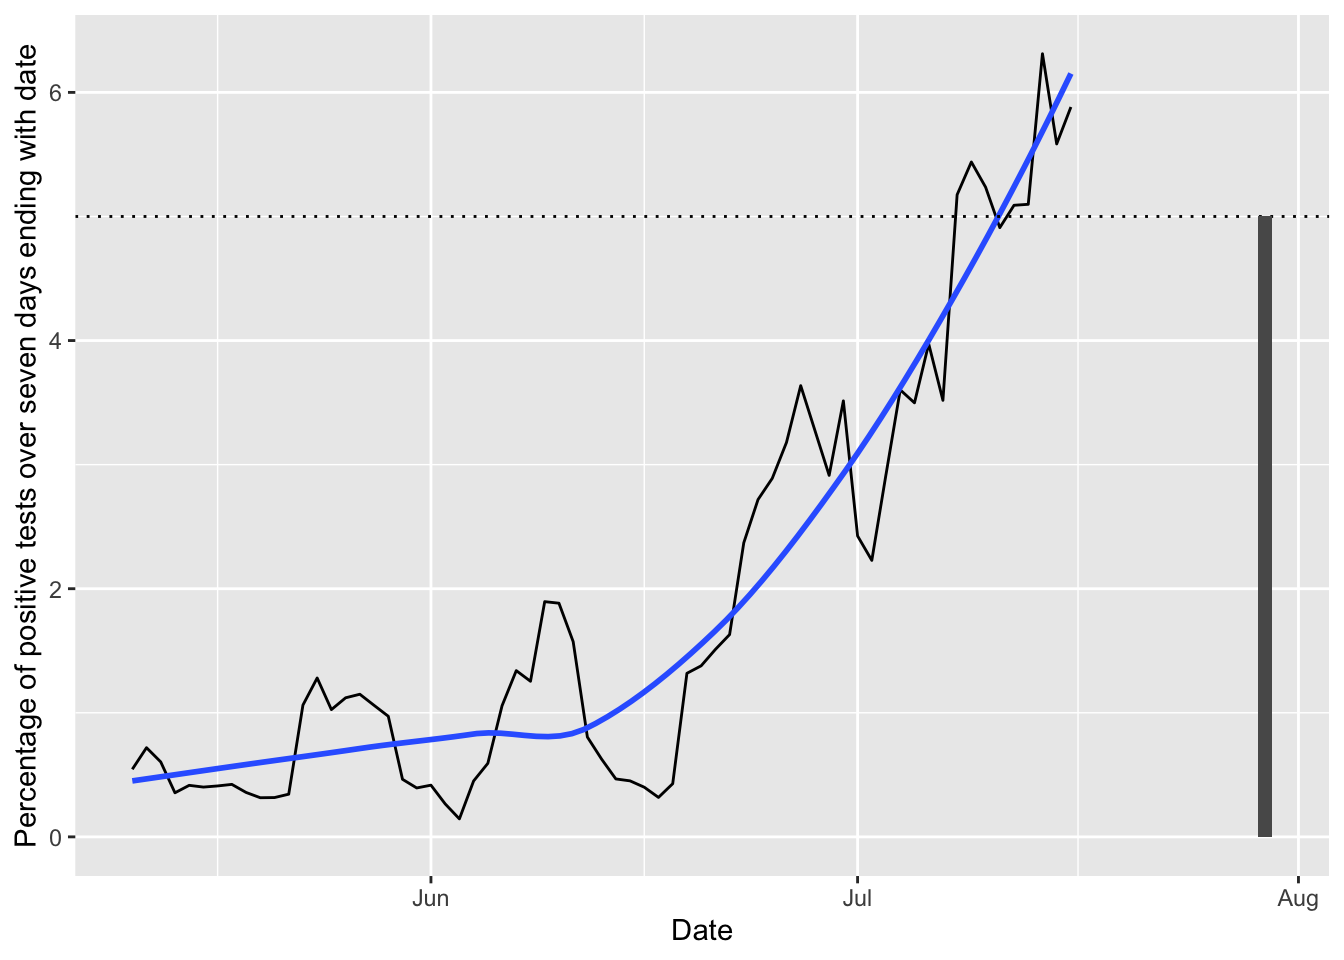
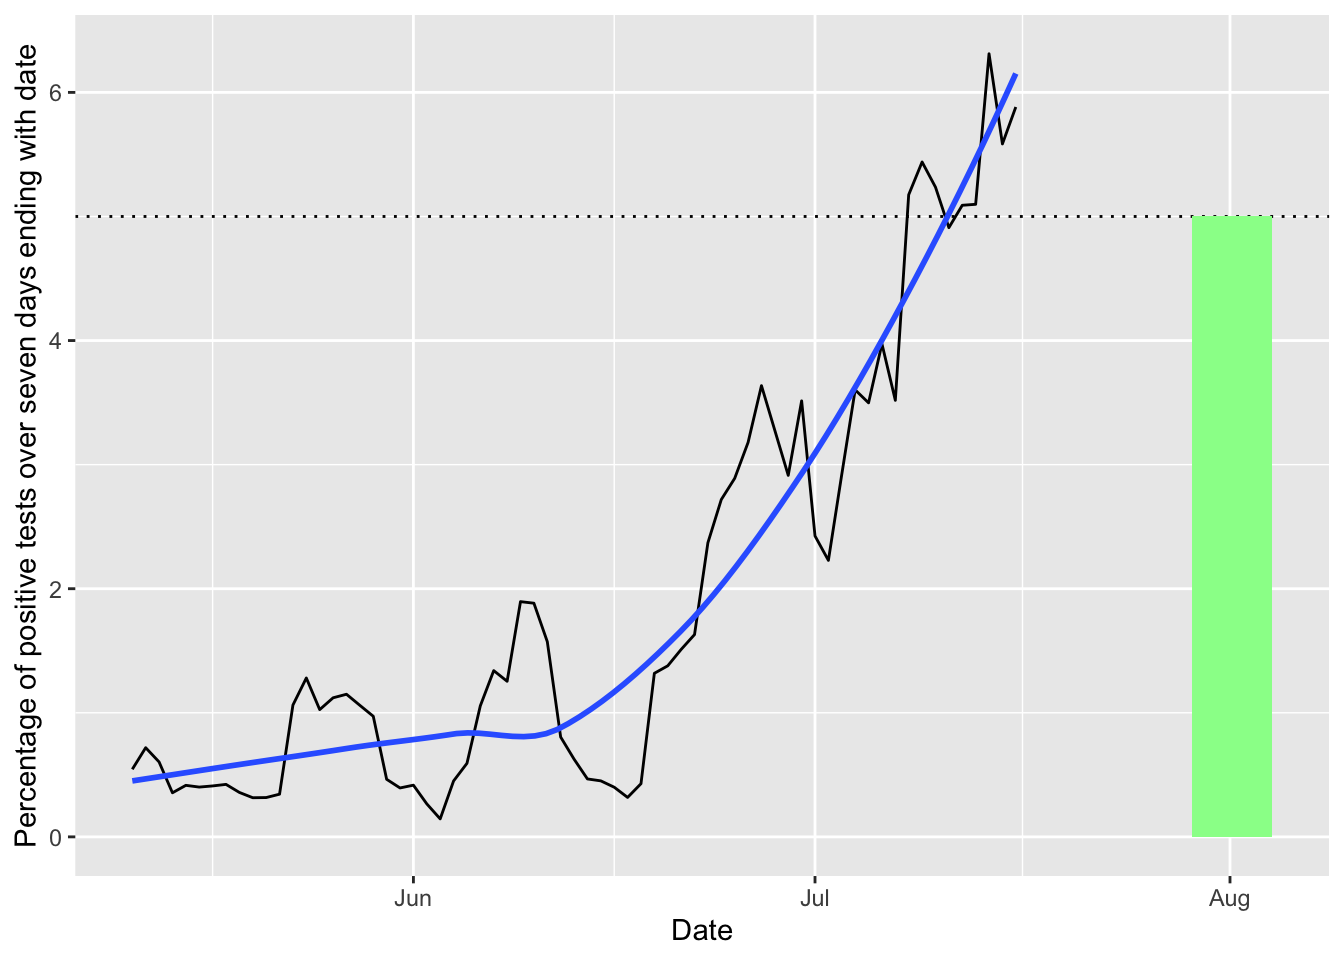
updating site

diff --git a/docs/covid.html b/docs/covid.html
@@ -412,7 +412,7 @@ $(document).ready(function () {
 <li><a href="https://projects.propublica.org/reopening-america/">ProPublica’s tracker of state status</a>. Click on the play button below their map to see how rates are changing over time, and dig into info on your state.</li>
 </ul>
 <hr />
-<p>Here are some plots, created in R using data from <a href="https://covid19datahub.io" class="uri">https://covid19datahub.io</a> (Guidotti, E., Ardia, D., (2020), “COVID-19 Data Hub”, Working paper, doi: 10.13140/RG.2.2.11649.81763), as well as information from Google and the <a href="https://www.tn.gov/health/cedep/ncov/data/downloadable-datasets.html">state of Tennessee dataset page</a> and plotting and analysis using the <code>forecast</code>, <code>ggplot2</code>, <code>reshape2</code>, and <code>dplyr</code> packages. It also uses the <a href="https://github.com/mtna/rds-r">rds-r</a> package from <a href="https://www.richdataservices.com/" class="uri">https://www.richdataservices.com/</a>. Plots created on 2020-07-16 15:06:43. I use <code>ggplot2</code>’s <code>geom_smooth()</code> function for the smoothed regression plots with its default formula, which uses loess smoothing for this many points. This is not based on a model of disease spread or anything similarly sophisticated, just drawing a smooth curve to summarize noisy points (see <a href="https://www.itl.nist.gov/div898/handbook/pmd/section1/pmd144.htm">here</a> for more details).</p>
+<p>Here are some plots, created in R using data from <a href="https://covid19datahub.io" class="uri">https://covid19datahub.io</a> (Guidotti, E., Ardia, D., (2020), “COVID-19 Data Hub”, Working paper, doi: 10.13140/RG.2.2.11649.81763), as well as information from Google and the <a href="https://www.tn.gov/health/cedep/ncov/data/downloadable-datasets.html">state of Tennessee dataset page</a> and plotting and analysis using the <code>forecast</code>, <code>ggplot2</code>, <code>reshape2</code>, and <code>dplyr</code> packages. It also uses the <a href="https://github.com/mtna/rds-r">rds-r</a> package from <a href="https://www.richdataservices.com/" class="uri">https://www.richdataservices.com/</a>. Plots created on 2020-07-16 15:14:35. I use <code>ggplot2</code>’s <code>geom_smooth()</code> function for the smoothed regression plots with its default formula, which uses loess smoothing for this many points. This is not based on a model of disease spread or anything similarly sophisticated, just drawing a smooth curve to summarize noisy points (see <a href="https://www.itl.nist.gov/div898/handbook/pmd/section1/pmd144.htm">here</a> for more details).</p>
 <p>The number of new and active cases should be not be going up if things are well-controlled, and ideally should be going down. The number of active cases is the number of positive cases minus the total of recovered or deceased cases: note it is from those tested and shown to be positive, but there are likely more people with covid who have not been tested. This uses data from <a href="https://www.tn.gov/health/cedep/ncov/data/downloadable-datasets.html" class="uri">https://www.tn.gov/health/cedep/ncov/data/downloadable-datasets.html</a>. Note that the number of active cases in Knox County reported by the state differs from the <a href="https://covid.knoxcountytn.gov/case-count.html#covid_data">county website</a>, sometimes dramatically (on June 16, the county website said 102 active cases, while the state says 178, for example) – I suspect this is based on the number of recovered cases not being updated as quickly in the state data, but I do not know. Knox County does not seem to offer a download of their data through time, so I am using the state’s data. The number of new cases per day seems to align fairly well, but not perfectly, between the state and county data, too.</p>
 <p>I plot three regions</p>
 <ul>
@@ -432,7 +432,7 @@ $(document).ready(function () {
 <h2>
 Schooling
 </h2>
-<p>Many of the local schools are adopting a hybrid approach, where families can choose whether to send their kids to school or do online learning (sometimes with reduced options). The <i>New York Times</i> <a href="https://www.nytimes.com/2020/07/14/us/coronavirus-schools-fall.html">reports</a> on July 14, 2020, that, “As education leaders decide whether to reopen classrooms in the fall amid a raging pandemic, many are looking to a standard generally agreed upon among epidemiologists: To control community spread of the coronavirus, the average daily infection rate among those who are tested should not exceed 5 percent.” Many districts nationally are not hitting that goal, but a question is whether local ones will. The first district to open in our area will be Oak Ridge public schools, who have a start date for students in person on July 29, 2020. Following the procedure of the <i>NYT</i>’s article, I am plotting the seven day average of positivity rate for tests for the counties including Oak Ridge (Roane and Anderson).</p>
+<p>Many of the local schools are adopting a hybrid approach, where families can choose whether to send their kids to school or do online learning (sometimes with reduced options). The <i>New York Times</i> <a href="https://www.nytimes.com/2020/07/14/us/coronavirus-schools-fall.html">reports</a> on July 14, 2020, that, “As education leaders decide whether to reopen classrooms in the fall amid a raging pandemic, many are looking to a standard generally agreed upon among epidemiologists: To control community spread of the coronavirus, the average daily infection rate among those who are tested should not exceed 5 percent.” Many districts nationally are not hitting that goal, but a question is whether local ones will. The first district to open in our area will be Oak Ridge public schools, who have a start date for students in person on July 29, 2020. Following the procedure of the <i>NYT</i>’s article, I am plotting the seven day average of positivity rate for tests for the counties including Oak Ridge (Roane and Anderson). The black line is the seven day rolling mean (total new confirmed / total new tests, not a mean of this ratio per day), the blue line is this smoothed, the dotted line is the 5% threshold, and the green rectangle is the first week of school</p>
 <p><img src="covid_files/figure-html/oakridge7-1.png" width="672" /></p>
 <hr />
 <h2>
